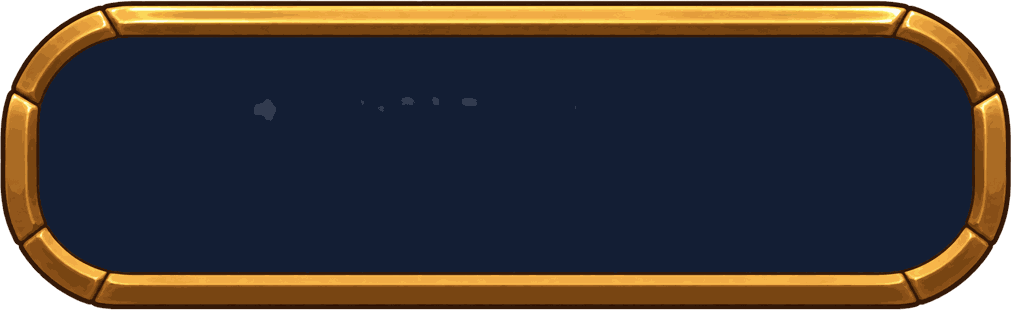
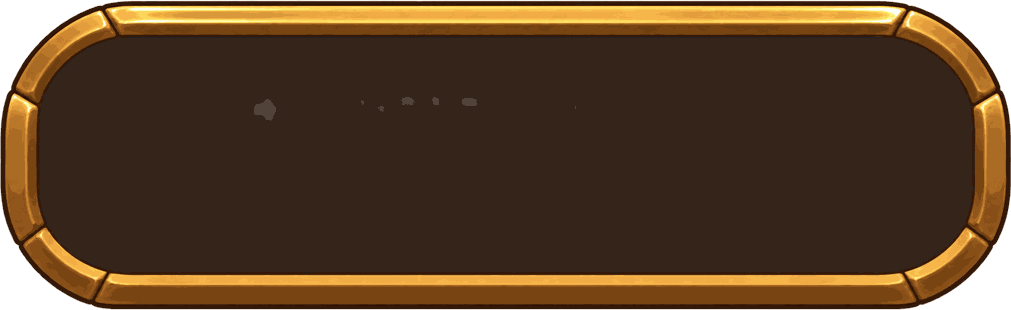
남색 프레임 제거 · 배너 프레이밍 · 숫자 서체 · SFX-13~16 적용
남색의 근원: 9-slice 프레임 그림이 금테 + **남색 속판**이었다. 리스킨 v2 에서
  토큰만 갈색으로 옮기고 그림은 옛 청색 스킨 그대로라, fill 로 칠해지는 모든
  칸이 남색이었다(그림이 CSS 색을 이긴다). 9종 프레임의 남색 픽셀을 명도 유지한
  채 따뜻한 갈색으로 재색. 특가·교환처럼 갈색 속에 남색 테가 남던 것도 해소.
배너: 패널 배너가 108px 이라 본문 카드가 올라타 그림 가운데 토막만 삐죽 보였다
  — 제목 줄 뒤에서 시작해 본문 직전에 사라지는 72px 헤더 띠로. 전체화면(랭킹·
  상점·우편)은 5:1 띠에 2:1 그림을 넣어 고양이가 잘렸다 — 128px 로 키우고
  그림마다 어디를 남길지(--pn-y) 지정, 아래는 본문 색으로 녹였다.
숫자 서체: Black Han Sans 는 획이 굵고 속공간이 좁아 11~13px 에서 6·8·9 가
  뭉갰다. 숫자는 시스템 굵은 산세리프로. 게임 제목만 디스플레이체 유지.
랭킹: "St 12" -> "12 스테이지", 경쟁점수 탭은 "5.33k 점" 으로 단위 표기.
스킬: SFX-13~16 적용(512px 양자화), 임시 매핑 제거. 프리로드 개수가 12 로 굳어
  있어 그림이 있어도 텍스처가 없던 것 수정 — 16종 전부 로드 확인.

diff --git a/game/index.html b/game/index.html
@@ -30,14 +30,17 @@
   button img,#fgObj img{pointer-events:none}
   input,textarea{-webkit-user-select:text;user-select:text}
 
-  /* 숫자는 전부 굵은 디스플레이체(Black Han Sans) — Jua 는 굵기가 하나뿐이라
-     힘이 안 실린다. **수량·전투력·가격처럼 "읽고 비교하는 숫자"가 대상**이고,
-     문장 안 숫자는 본문체 그대로다. tabular-nums 로 자릿수가 흔들리지 않게 한다 */
+  /* 숫자 서체. Black Han Sans 로 두면 획이 두껍고 속공간이 좁아 11~13px 에서
+     6·8·9 가 서로 뭉갠다 — "굵다"와 "읽힌다"는 다른 문제다. 숫자는 시스템
+     굵은 산세리프로 뽑는다(속공간이 넓다). 게임 제목만 디스플레이체로 남긴다. */
   #cp,#timer,#stgNum,.q-prog,#idGold,.er-card .er-d,.er-card b,
   .cur b,#caplv,.gain,.rk-sc,.al-sum b,.al-mem-c,.at-cell em,.at-cum em,
-  .sh-price,.sh-cur b,#fgLv,.tw-rw,#bootTitle,#pvGold,#wallNeed,#wallMy{
-    font-family:"Black Han Sans","Jua",system-ui,sans-serif;font-weight:400;
-    font-variant-numeric:tabular-nums;letter-spacing:.3px}
+  .sh-price,.sh-cur b,#fgLv,.tw-rw,#pvGold,#wallNeed,#wallMy{
+    font-family:system-ui,-apple-system,"Segoe UI","Noto Sans KR",
+      "Malgun Gothic","Apple SD Gothic Neo",sans-serif;
+    font-weight:800;font-variant-numeric:tabular-nums;letter-spacing:.2px}
+  #bootTitle{font-family:"Black Han Sans","Jua",system-ui,sans-serif;font-weight:400;
+    letter-spacing:.3px}
   html,body{margin:0;height:100%;background:#0f0b08;color:var(--txt);overflow:hidden;
     font-family:"Jua","Apple SD Gothic Neo","Malgun Gothic",system-ui,sans-serif}
 
@@ -1712,6 +1715,9 @@
   .rk-who i{font-style:normal;font-size:9px;color:var(--gold);overflow:hidden;
     text-overflow:ellipsis;white-space:nowrap}
   .rk-row.top .rk-ava{width:38px;height:38px}
+  /* 단위(스테이지·점)는 숫자보다 작고 흐리게 — 값이 먼저 읽혀야 한다 */
+  .rk-sc i{font-style:normal;font-size:9px;font-weight:700;color:var(--dim);
+    margin-left:3px;letter-spacing:0}
   .rk-sc{font-weight:900;color:var(--gold);font-variant-numeric:tabular-nums}
   .rk-season{background:linear-gradient(120deg,#3b2a6b,#1d2a52);border:1px solid #6a5ac0;
     border-radius:12px;padding:12px;margin-bottom:11px}
@@ -2042,9 +2048,11 @@
      한 화면에 두 세계가 섞인다 */
   #ovcard[data-skin] .frow, #ovcard[data-skin] .sh-card,
   #ovcard[data-skin] .als-card, #ovcard[data-skin] .fg-up{
-    background-color:color-mix(in srgb, var(--ov-bg) 62%, #0000)}
-  .frow,.sh-card{background:none;border-style:solid;border-width:11px;border-radius:0;
-    border-image:var(--f-card) 122 fill stretch}
+    background-color:color-mix(in srgb, var(--ov-bg) 78%, #fff1)}
+  /* 카드 프레임도 fill 을 빼야 배경색이 산다 — fill 이 있으면 그림이 가운데까지
+     칠해서 스킨 색이 그 뒤로 숨는다(패널과 같은 이유). 기본값은 --card 다 */
+  .frow,.sh-card{background:var(--card);border-style:solid;border-width:11px;
+    border-radius:0;border-image:var(--f-card) 122 stretch;background-clip:padding-box}
   .frow{padding:1px 3px;margin-bottom:5px}
   .sh-card{padding:2px 3px;margin-bottom:5px}
   /* 특가 카드의 금색 왼쪽 띠는 프레임과 겹쳐 지저분해진다. 제목을 금색으로 대신 */
@@ -2323,28 +2331,56 @@
      톤 발광을 차등한다. 이미지는 전부 기존 에셋 재사용 — 전용 헤더 아트(PN-*)가
      생기면 --ov-img 만 갈아끼운다 (에셋_생성_프롬프트.md 13절) */
   #ovskin{display:none}
+  /* 제목 줄 **뒤**에 깔리는 헤더 띠다. 예전엔 108px 이라 본문 카드가 그 위에
+     올라타 그림의 가운데 토막만 삐죽 보였다 — 배너가 아니라 얼룩으로 읽혔다.
+     제목 높이(약 50px)에 여유 22px 만 더해, 본문이 시작되기 직전에 사라진다. */
   #ovcard[data-skin] #ovskin{display:block;position:absolute;left:15px;right:15px;top:15px;
-    height:108px;z-index:0;pointer-events:none;
-    background:var(--ov-img) center var(--ov-pos,24%)/cover no-repeat;
-    -webkit-mask:linear-gradient(180deg,#000 30%,#0000 96%);
-    mask:linear-gradient(180deg,#000 30%,#0000 96%);
-    opacity:.48;filter:saturate(1.06)}
+    height:72px;z-index:0;pointer-events:none;
+    background:var(--ov-img) center var(--ov-pos,42%)/cover no-repeat;
+    -webkit-mask:linear-gradient(180deg,#000 46%,#0006 78%,#0000 100%);
+    mask:linear-gradient(180deg,#000 46%,#0006 78%,#0000 100%);
+    opacity:.62;filter:saturate(1.05)}
+  /* 그림과 제목이 겹치는 자리에만 어둠을 깐다. 안 그러면 밝은 배너 위에서
+     금색 제목이 사라진다 */
+  #ovcard[data-skin] #ovskin::after{content:"";position:absolute;inset:0;
+    background:linear-gradient(180deg,#150f0baa,#150f0b44 60%,#0000)}
   /* 백드롭 위로 내용이 올라와야 한다 */
   #ovh,#ovinfo,#ovb{position:relative;z-index:1}
   /* 바탕색(--ov-bg)은 톤과 같은 계열의 **아주 어두운** 값이다. 채도를 올리면
      그림과 글자가 다 죽는다 — 화면이 갈렸다는 것만 읽히면 된다 */
-  #ovcard[data-skin="attend"]  {--ov-tone:#2e7d3288;--ov-bg:#16251a;--ov-img:url(/assets/bg/BG-04.png)}
-  #ovcard[data-skin="pass"]    {--ov-bg:#2b2110;--ov-tone:#b8860b88;--ov-img:url(/assets/art/UR-01-ART.png);--ov-pos:14%}
-  #ovcard[data-skin="arena"]   {--ov-bg:#2a1414;--ov-tone:#c6282888;--ov-img:url(/assets/bg/BG-03.png)}
+  #ovcard[data-skin="attend"]  {--ov-tone:#2e7d3288;--ov-bg:#16251a;--ov-img:url(/assets/ui/PN-ATTEND.png)}
+  #ovcard[data-skin="pass"]    {--ov-bg:#2b2110;--ov-tone:#b8860b88;--ov-img:url(/assets/ui/PN-PASS.png)}
+  #ovcard[data-skin="arena"]   {--ov-bg:#2a1414;--ov-tone:#c6282888;--ov-img:url(/assets/ui/PN-ARENA.png)}
   #ovcard[data-skin="training"]{--ov-bg:#241a12;--ov-tone:#8d6e6388;--ov-img:url(/assets/ui/FG-01.png)}
   #ovcard[data-skin="alliance"]{--ov-bg:#201628;--ov-tone:#6a1b9a88;--ov-img:url(/assets/alliance/AL-BG.png);--ov-pos:12%}
-  #ovcard[data-skin="forge"]   {--ov-bg:#2a1a10;--ov-tone:#ff8c4288;--ov-img:url(/assets/ui/FG-03.png)}
+  #ovcard[data-skin="forge"]   {--ov-bg:#2a1a10;--ov-tone:#ff8c4288;--ov-img:url(/assets/ui/PN-FORGE.png)}
   #ovcard[data-skin="equip"]   {--ov-bg:#1b1a2e;--ov-tone:#7e6bff88;--ov-img:url(/assets/ui/ALT-03.png);--ov-pos:30%}
-  #ovcard[data-skin="quest"]   {--ov-bg:#131e2a;--ov-tone:#3f7dd888;--ov-img:url(/assets/bg/BG-02.png)}
-  #ovcard[data-skin="event"]   {--ov-bg:#2a1620;--ov-tone:#ff5da288;--ov-img:url(/assets/ui/EV-01.png)}
+  #ovcard[data-skin="quest"]   {--ov-bg:#131e2a;--ov-tone:#3f7dd888;--ov-img:url(/assets/ui/PN-QUEST.png)}
+  #ovcard[data-skin="event"]   {--ov-bg:#2a1620;--ov-tone:#ff5da288;--ov-img:url(/assets/ui/PN-EVENT.png)}
   #ovcard[data-skin="promo"]   {--ov-bg:#2a2411;--ov-tone:#ffd75e88;--ov-img:url(/assets/captain/PR-warrior-3.png);--ov-pos:20%}
-  #ovcard[data-skin="friend"]  {--ov-bg:#2a2014;--ov-tone:#ffb64888;--ov-img:url(/assets/captain/captain_face_happy.png);--ov-pos:38%}
+  #ovcard[data-skin="friend"]  {--ov-bg:#2a2014;--ov-tone:#ffb64888;--ov-img:url(/assets/ui/PN-FRIEND.png)}
   #ovcard[data-skin] #ovt{text-shadow:0 1px 3px #000, 0 0 14px var(--ov-tone)}
+
+  /* 별도 전체화면 패널도 전용 PN 헤더를 사용한다. */
+  /* 전체화면 헤더 배너. 그림은 2:1 인데 띠는 5:1 이라 세로로 60% 가 잘린다 —
+     어디를 남길지 그림마다 정해야 머리가 안 잘린다(--pn-y). 아래쪽은 본문
+     색으로 녹여서 자른 자리가 선으로 안 보이게 한다. */
+  #shop .sh-head,#rank .sh-head,#mail .sh-head{min-height:128px;border:none;
+    padding:12px;align-items:flex-start;
+    background-position:center var(--pn-y,50%);background-size:cover;
+    background-repeat:no-repeat;position:relative;overflow:hidden}
+  #shop .sh-head::after,#rank .sh-head::after,#mail .sh-head::after{content:"";
+    position:absolute;left:0;right:0;bottom:0;height:56%;pointer-events:none;
+    background:linear-gradient(180deg,#0000,var(--bg) 92%)}
+  /* 제목·뒤로가기는 배너 위에 뜬다 — 위쪽에만 어둠을 깔아 읽히게 */
+  #shop .sh-head::before,#rank .sh-head::before,#mail .sh-head::before{content:"";
+    position:absolute;left:0;right:0;top:0;height:46px;pointer-events:none;
+    background:linear-gradient(180deg,#150f0bcc,#0000)}
+  #shop .sh-head>*,#rank .sh-head>*,#mail .sh-head>*{position:relative;z-index:1}
+  /* 시상대 위 고양이 셋이 그림의 아래쪽 절반에 있다 */
+  #rank .sh-head{background-image:url(/assets/ui/PN-RANK.png);--pn-y:58%}
+  #shop .sh-head{background-image:url(/assets/ui/PN-SHOP.png);--pn-y:34%}
+  #mail .sh-head{background-image:url(/assets/ui/PN-MAIL.png);--pn-y:52%}
 
   /* ── 친구 — 아바타(단장 표정 + 프로필 링) ── */
   .fr-av{position:relative;display:inline-block;flex:none}

diff --git a/game/src/view/battle/fx.js b/game/src/view/battle/fx.js
@@ -52,11 +52,10 @@ export const SKILL_FX = {
   'SK-A10': { at: 'party', scale: 1.05 },                    // 보호막
   'SK-A11': { at: 'captain', scale: 0.9 },                   // 새끼 냥이 소환
   'SK-A12': { at: 'captain', scale: 1.0 },                   // 유령 용병
-  // ↓ 전용 에셋 없음 — 빌려 쓴다
-  'SK-A13': { at: 'foe', asset: 'SFX-01', tint: 0x9fd8ff, scale: 1.15 },  // 연쇄 번개
-  'SK-A14': { at: 'foe', asset: 'HIT-06', tint: 0xc06bff, scale: 1.0 },   // 약점 노출
-  'SK-A15': { at: 'foe', asset: 'SFX-08', tint: 0x8fe3ff, scale: 1.2 },   // 시간 정지
-  'SK-A16': { at: 'foe', asset: 'SFX-05', tint: 0xffe08a, scale: 1.5 },   // 천공 붕괴
+  'SK-A13': { at: 'foe', scale: 1.15 },  // 연쇄 번개
+  'SK-A14': { at: 'foe', scale: 1.0 },   // 약점 노출
+  'SK-A15': { at: 'foe', scale: 1.2 },   // 시간 정지
+  'SK-A16': { at: 'foe', scale: 1.5 },   // 천공 붕괴
 };
 
 /** 모션 종류 → 타격 이펙트. 크리는 따로 덧씌운다. */

diff --git a/game/src/view/rank.js b/game/src/view/rank.js
@@ -83,7 +83,10 @@ export class RankScreen {
       x.addEventListener('click', () => { this.tab = x.dataset.t; this.render(); }));
 
     // 전투력 보드만 k/m 표기 — 자릿수가 커서 만/억 보다 한눈에 읽힌다
-    const fmt = v => this.tab === 'stage' ? `St ${v}` : this.tab === 'power' ? cpNum(v) : num(v);
+    // 오른쪽 숫자가 무엇인지 값 옆에 붙인다 — "St 12" 는 무슨 단위인지 안 읽힌다
+    const fmt = v => this.tab === 'stage' ? `${num(v)}<i>스테이지</i>`
+      : this.tab === 'power' ? cpNum(v)
+      : `${num(v)}<i>점</i>`;
     const rows = this.rows(this.tab);
     const myRank = 47;                  // 실제로는 getMyBestRank()
 

diff --git a/game/src/view/battle/scene.js b/game/src/view/battle/scene.js
@@ -84,7 +84,9 @@ export class BattleScene {
       'HIT-01', 'HIT-02', 'HIT-03', 'HIT-04', 'HIT-05', 'HIT-06', 'HIT-07', 'HIT-08',
       'PX-01', 'PX-02', 'PX-03',
       ...Array.from({ length: 9 }, (_, i) => `PJ-0${i + 1}`),
-      ...Array.from({ length: 12 }, (_, i) => `SFX-${String(i + 1).padStart(2, '0')}`),
+      // 액티브 스킬 수(SK-A01~A16)와 같아야 한다 — 12 로 굳어 있어서 뒤 4종은
+      // 그림이 있어도 텍스처가 없어 안 떴다
+      ...Array.from({ length: 16 }, (_, i) => `SFX-${String(i + 1).padStart(2, '0')}`),
     ]);
 
     app.ticker.add(t => this.tick(t.deltaMS));

diff --git a/에셋_생성_프롬프트.md b/에셋_생성_프롬프트.md
@@ -1523,8 +1523,8 @@ GPT는 생성 후 `완료 (E-05.png). 다음: E-06 해골 병사.` 형태로 한
 | `bg` | 6 | 배경 |
 | `skill` | 38 | 스킬 아이콘 (전직 전용 6종 포함) |
 | `equip` | 30 | 장비 6부위 x 4밴드 + 폴백 |
-| `ui` | 103 | 등급프레임 6 · 장비프레임 3 · 재화 12 · 소환진 3 · 대장간 3 · 사이드 15 · 상자 3 · 열쇠 6 · 제작대 9 · UI킷 23 · 프로필 10 · 기능 아이콘 4 · 이벤트 배너 2 · 주사위 6 · 이벤트 보드 1 · 게임 로고 1 |
-| `fx` | 38 | 타격 · 스킬 · 투사체 |
+| `ui` | 113 | 등급프레임 6 · 장비프레임 3 · 재화 12 · 소환진 3 · 대장간 3 · 사이드 15 · 상자 3 · 열쇠 6 · 제작대 9 · UI킷 23 · 프로필 10 · 기능 아이콘 4 · 이벤트 배너 2 · 주사위 6 · 이벤트 보드 1 · 게임 로고 1 · 패널 헤더 10 |
+| `fx` | 42 | 타격 · 스킬 · 투사체 |
 | `captain` | 15 | 직군 3 + 표정 4 + v2 + 전직 단계 6 + 이벤트 날개 1 |
 | `alliance` | 5 | 마을 배경 + 건물 4 |
 
@@ -1568,6 +1568,8 @@ GPT는 생성 후 `완료 (E-05.png). 다음: E-06 해골 병사.` 형태로 한
 **저장 위치**: `game/public/assets/ui/`. 생성되면 말해달라 — 256색 양자화
 후 `--ov-img` 교체까지 해준다.
 
+**완료 (2026-08-24)**: PN 헤더 10종 생성, 256색 양자화 및 화면 연결 완료.
+
 
 ---
 
@@ -1595,8 +1597,13 @@ GPT는 생성 후 `완료 (E-05.png). 다음: E-06 해골 병사.` 형태로 한
 | `SFX-15.png` | SK-A15 시간 정지 | SFX-08 을 청록으로 | 멈춘 시계 문자판과 얼어붙은 톱니, 사방으로 퍼지는 청록 파문 |
 | `SFX-16.png` | SK-A16 천공 붕괴 | SFX-05 를 금색으로 | 하늘이 갈라지며 쏟아지는 거대한 금빛 광선 기둥과 낙석 |
 
-**저장 위치**: `game/public/assets/fx/`. 생성되면 말해달라 — 256색 양자화 후
-`SKILL_FX` 의 임시 매핑(asset·tint)을 지우면 바로 붙는다.
+**적용 완료 (2026-08-24)**: SFX-13~16 생성됨. 512px 다운스케일 + 256색 양자화
+후 적용했고, `SKILL_FX` 의 임시 매핑(asset·tint)은 지웠다. 전투 씬 프리로드
+개수도 12 -> 16 으로 고쳤다 — 그림이 있어도 프리로드 목록이 12 로 굳어 있어
+텍스처가 없었다.
+
+**완료 (2026-08-24)**: `SFX-13.png`~`SFX-16.png` 생성, 1024×1024 투명 PNG 및
+256색 양자화 완료. `SKILL_FX`의 임시 `asset`·`tint` 매핑 제거 완료.
 
 **참고**: 패시브 스킬 20종은 전투 연출이 없다. 전투력에만 곱해지는 설계라
 발동 시점이 없어서다 (`skills.json` > `combatOnlyRule`). 연출을 붙이려면
